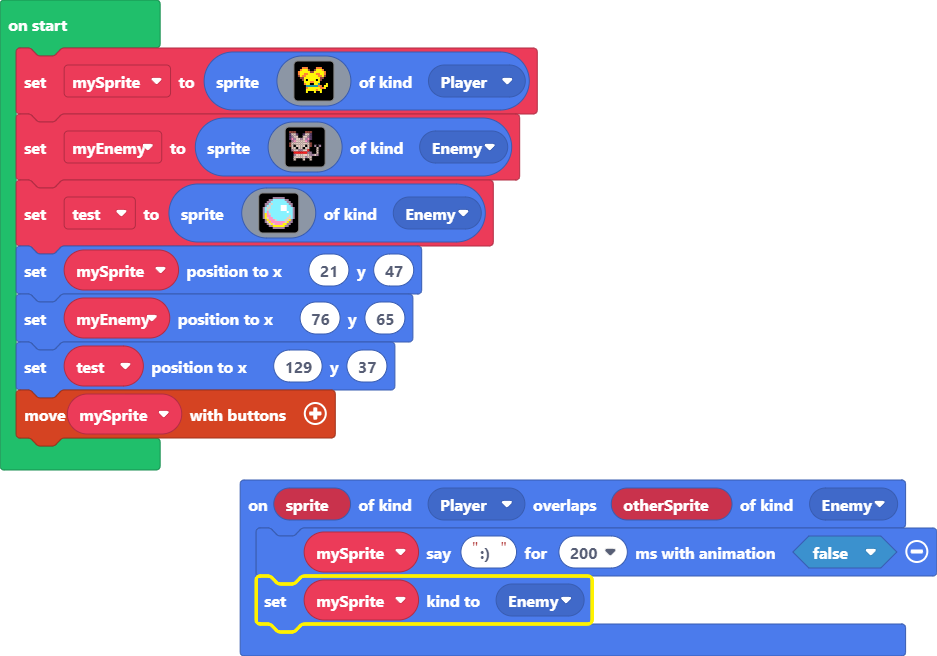
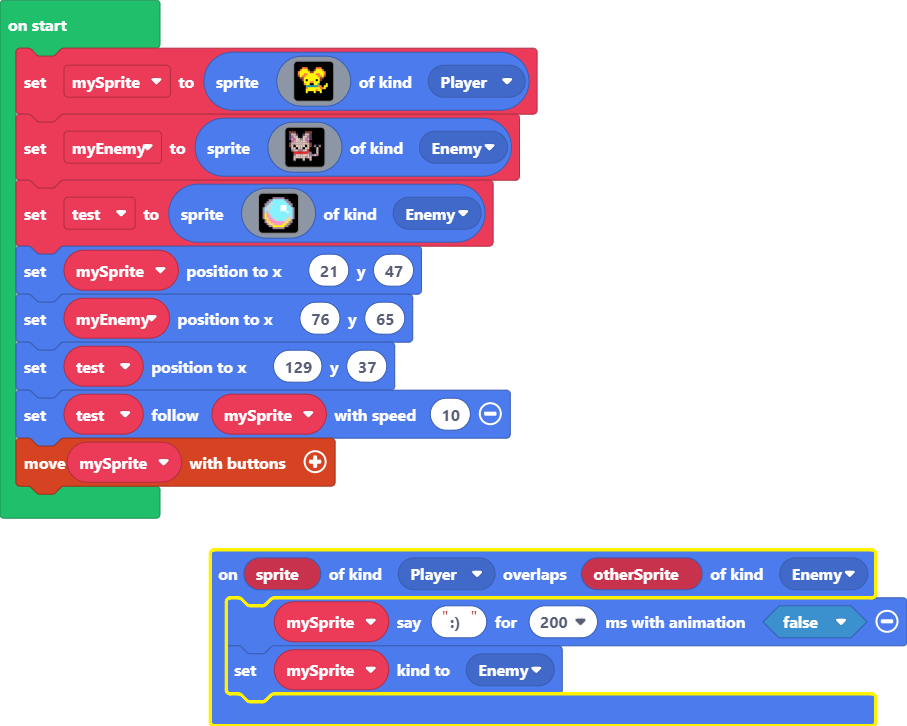
Following sprite

Changed region(s): [[0.0, 0.0, 0.6174, 0.7317], [0.2161, 0.7317, 1.0, 1.0]]

diff --git a/main.ts b/main.ts
@@ -56,4 +56,5 @@ let test = sprites.create(img`
 mySprite.setPosition(21, 47)
 myEnemy.setPosition(76, 65)
 test.setPosition(129, 37)
+test.follow(mySprite, 10)
 controller.moveSprite(mySprite)
